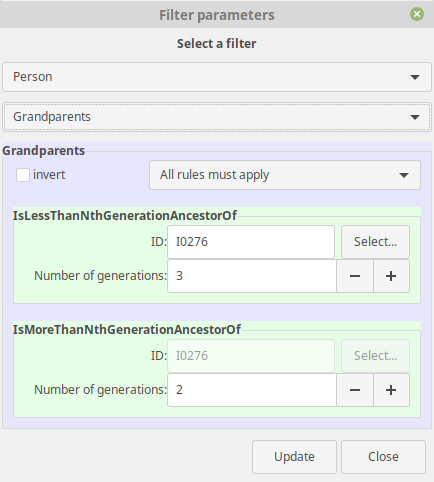
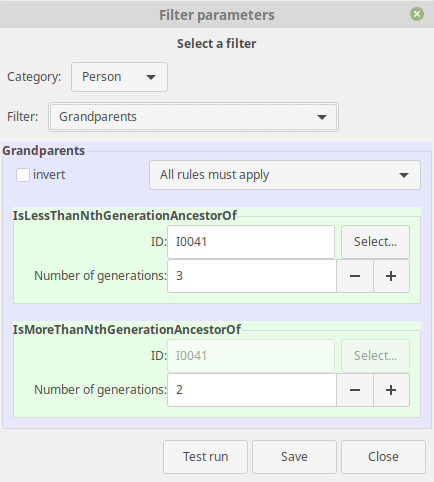
FilterParams: Update README

diff --git a/addons/FilterParams/README.md b/addons/FilterParams/README.md
@@ -29,15 +29,21 @@ The first dropdown list contains all categories, the default is the current cate
 
 ![FilterParams](FilterParams2.png)
 
-If a filter is using another filter then the contents of that filter is also shown in an embedded frame. The colors are intended to help in visualizing the structure.
+If a filter is using another filter then the contents of that filter is also shown in an embedded frame. The colors are intended to help in visualizing the structure (unfortunately this color scheme does not work properly with a dark color theme).
 
-Any parameters are shown in a similar manner as in the regular filter rule editor. Change any parameters and press "Update" - the new values are stored permanently with the filter.
+Any parameters are shown in a similar manner as in the regular filter rule editor. Change any parameters and press "Test run" - this will apply the filter to all objects in the relevant category and display the result, i.e. objects matching the filter, in a separate window:
+
+![FilterParams](FilterParams-testrun.png)
+
+![FilterParams](FilterParams-testrun-results.png)
+
+The changed parameter values are not stored. If you want to store the parameter values permanently the press the "Save" button. However, the changed values are available as long as you do not move to another filter or close the tool. This means that if you run the same filter from the sidebar then the changed parameters are in effect.
 
 This tool does not otherwise allow editing of the filters or rules (like adding or deleting filters or rules). For those you have to use the regular filter editor. If filters are changed then you should close and reopen the tool - the filter information is not updated dynamically.
 
 #### Common usage tip
 
-A convenient way to use the tool is to open the same filter simultaneously in this tool and in the sidebar filter gramplet. Any parameter change made using this tool is then immediately used by the sidebar filter:
+One way to use the tool is to open the same filter simultaneously in this tool and in the sidebar filter gramplet. Any parameter change made using this tool is then immediately used by the sidebar filter (but not stored permanently as noted above).
 
 ![FilterParams](FilterParams3.png)
 
@@ -72,3 +78,5 @@ If a custom filter has a comment then the comment is shown as a tooltip when one
 The "invert" check box indicates the option "Return values that do not match the filter rules".
 
 The "All/At least one/Exactly one rule must apply" selection appears only if there actually are multiple rules in a filter.
+
+
